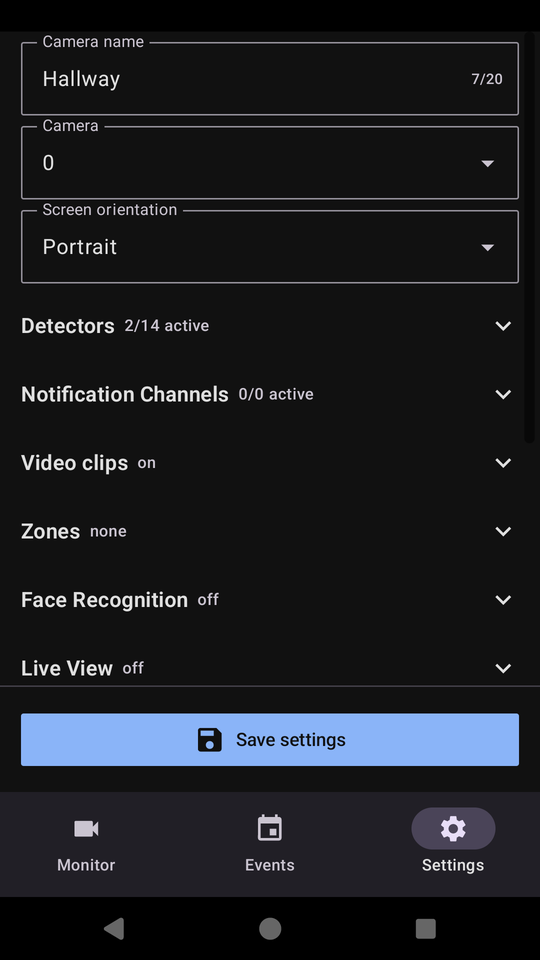
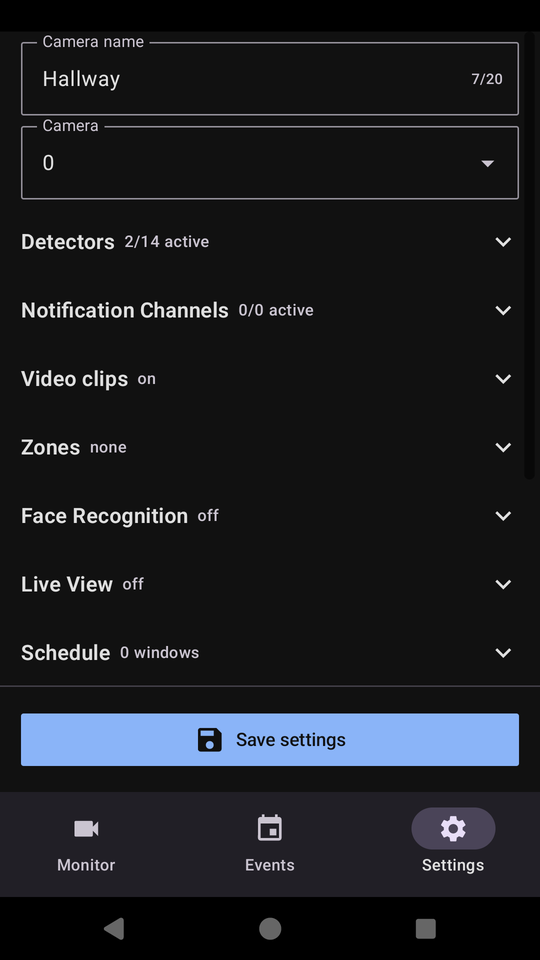
refactor: video clips settings layout
Remove intro body text, rename Resolution to Video resolution, add spacing
between inputs, add Watermark subheading above the stamp controls, and move
Privacy mask above the watermark section. Refresh screenshots.

diff --git a/android/app/src/main/kotlin/io/securitycam/level2/ui/settings/SettingsScreen.kt b/android/app/src/main/kotlin/io/securitycam/level2/ui/settings/SettingsScreen.kt
@@ -386,25 +386,22 @@ fun SettingsScreen(
                             )
                         }
                         CollapsibleSection("Video clips", summary = if (current.recordVideo) "on" else "off") {
-                            BodyText(
-                                "Android only: each event captures footage before and after the " +
-                                    "trigger and saves it to your gallery.",
-                            )
-                            Spacer(Modifier.height(8.dp))
                             SwitchRow(
                                 title = "Record video locally",
                                 subtitle = "Save a clip to your gallery for each event. Off saves storage and battery.",
                                 checked = current.recordVideo,
                                 onCheckedChange = { v -> viewModel.update { it.copy(recordVideo = v) } },
                             )
+                            Spacer(Modifier.height(8.dp))
                             DropdownField(
-                                label = "Resolution",
+                                label = "Video resolution",
                                 selected = VideoQuality.label(current.videoQuality),
                                 options = VideoQuality.values.map { it to VideoQuality.label(it) },
                                 enabled = current.recordVideo,
                                 testTag = "videoQualityDropdown",
                                 onSelect = { q -> viewModel.update { it.copy(videoQuality = q) } },
                             )
+                            Spacer(Modifier.height(8.dp))
                             Text("Pre-roll: ${current.preRollSeconds}s")
                             Slider(
                                 value = current.preRollSeconds.toFloat().coerceIn(0f, 30f),
@@ -416,6 +413,7 @@ fun SettingsScreen(
                                 enabled = current.recordVideo,
                                 modifier = Modifier.testTag("preRollSlider"),
                             )
+                            Spacer(Modifier.height(8.dp))
                             Text("Post-roll: ${current.postRollSeconds}s")
                             Slider(
                                 value = current.postRollSeconds.toFloat().coerceIn(0f, 30f),
@@ -427,6 +425,36 @@ fun SettingsScreen(
                                 enabled = current.recordVideo,
                                 modifier = Modifier.testTag("postRollSlider"),
                             )
+                            Spacer(Modifier.height(8.dp))
+                            SwitchRow(
+                                title = "Privacy mask",
+                                subtitle = "Obscure exclusion zones in recorded clips",
+                                checked = current.privacyMasking,
+                                onCheckedChange = { v ->
+                                    viewModel.update { it.copy(privacyMasking = v) }
+                                },
+                            )
+                            if (current.privacyMasking) {
+                                Spacer(Modifier.height(8.dp))
+                                DropdownField(
+                                    label = "Mask effect",
+                                    selected = io.securitycam.level2.core.PrivacyMaskEffect.label(current.privacyMaskEffect),
+                                    options = io.securitycam.level2.core.PrivacyMaskEffect.values.map {
+                                        it to io.securitycam.level2.core.PrivacyMaskEffect.label(it)
+                                    },
+                                    testTag = "privacyMaskEffect",
+                                    onSelect = { e ->
+                                        viewModel.update { it.copy(privacyMaskEffect = e) }
+                                    },
+                                )
+                            }
+                            Spacer(Modifier.height(8.dp))
+                            Text(
+                                "Watermark",
+                                style = MaterialTheme.typography.labelLarge,
+                                fontWeight = FontWeight.SemiBold,
+                                modifier = Modifier.padding(top = 4.dp, bottom = 4.dp),
+                            )
                             SwitchRow(
                                 title = "Date/time stamp",
                                 subtitle = "Burn the date/time into recorded clips",
@@ -436,6 +464,7 @@ fun SettingsScreen(
                                 },
                             )
                             if (current.clipTimestamp) {
+                                Spacer(Modifier.height(8.dp))
                                 SwitchRow(
                                     title = "Include camera name",
                                     subtitle = "Prefix the stamp with the camera name",
@@ -446,6 +475,7 @@ fun SettingsScreen(
                                         }
                                     },
                                 )
+                                Spacer(Modifier.height(8.dp))
                                 DropdownField(
                                     label = "Stamp position",
                                     selected = ClipStampPosition.label(current.clipTimestampPosition),
@@ -455,27 +485,6 @@ fun SettingsScreen(
                                     testTag = "clipStampPosition",
                                     onSelect = { p ->
                                         viewModel.update { it.copy(clipTimestampPosition = p) }
-                                    },
-                                )
-                            }
-                            SwitchRow(
-                                title = "Privacy mask",
-                                subtitle = "Obscure exclusion zones in recorded clips",
-                                checked = current.privacyMasking,
-                                onCheckedChange = { v ->
-                                    viewModel.update { it.copy(privacyMasking = v) }
-                                },
-                            )
-                            if (current.privacyMasking) {
-                                DropdownField(
-                                    label = "Mask effect",
-                                    selected = io.securitycam.level2.core.PrivacyMaskEffect.label(current.privacyMaskEffect),
-                                    options = io.securitycam.level2.core.PrivacyMaskEffect.values.map {
-                                        it to io.securitycam.level2.core.PrivacyMaskEffect.label(it)
-                                    },
-                                    testTag = "privacyMaskEffect",
-                                    onSelect = { e ->
-                                        viewModel.update { it.copy(privacyMaskEffect = e) }
                                     },
                                 )
                             }
